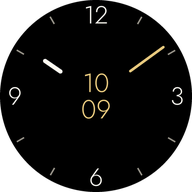
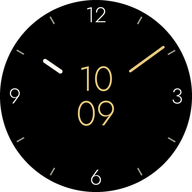
feat: bigger digital digits, smaller dial numerals, hands in AOD (#3)
- Digital heart grows from 64px to 84px (boxes and row offsets scaled
  to keep it centered on the dial)
- Dial numerals 12/3/6/9 shrink from 60px to 52px
- AOD now shows the white analog hands alongside the gray digits,
  via a dedicated TIME_POINTER reusing the ivory minute hand PNG
- Assets regenerated for both targets

diff --git a/watchface/index.js b/watchface/index.js
@@ -70,12 +70,12 @@ const HAND_MINUTE_POS = { posX: 5, posY: 205 }; // path is theme-driven
 
 // Digital heart — two stacked rows (HH above, MM below), centered on the dial.
 // Row boxes are symmetric around CY; exact px tuned in the simulator.
-const DIGIT_SIZE = 64;
+const DIGIT_SIZE = 84;
 const DIGIT_BOX_W = 200;
-const DIGIT_BOX_H = 76;
+const DIGIT_BOX_H = 100;
 // Each row's center offset from CY — mirrored in tools/render-assets.py
 // (DIGIT_ROW_DY). Boxes may overlap; they are transparent.
-const DIGIT_ROW_DY = 32;
+const DIGIT_ROW_DY = 42;
 
 const NORMAL = show_level.ONLY_NORMAL;
 const AOD = show_level.ONAL_AOD;
@@ -191,7 +191,23 @@ WatchFace({
 			show_level: NORMAL,
 		});
 
-		// ── AOD — digital heart only, dim gray, minimum lit pixels ───────────
+		// ── AOD — digital heart + white hands, minimum lit pixels ────────────
+		// Separate TIME_POINTER so the minute hand stays white in AOD instead
+		// of inheriting the theme accent (the ivory PNG doubles as white).
+		createWidget(widget.TIME_POINTER, {
+			hour_path: HAND_HOUR.path,
+			hour_centerX: CX,
+			hour_centerY: CY,
+			hour_posX: HAND_HOUR.posX,
+			hour_posY: HAND_HOUR.posY,
+			minute_path: "hands/minute-ivory.png",
+			minute_centerX: CX,
+			minute_centerY: CY,
+			minute_posX: HAND_MINUTE_POS.posX,
+			minute_posY: HAND_MINUTE_POS.posY,
+			show_level: AOD,
+		});
+
 		const aodHoursWidget = createWidget(widget.TEXT, {
 			x: CX - DIGIT_BOX_W / 2,
 			y: CY - DIGIT_ROW_DY - DIGIT_BOX_H / 2,

diff --git a/tools/render-assets.py b/tools/render-assets.py
@@ -58,7 +58,7 @@ THEMES = [
 DEFAULT_THEME = "champagne"
 
 # Dial
-NUMERAL_SIZE = 60
+NUMERAL_SIZE = 52
 NUMERAL_R = 197  # radius of each numeral's center — hugging the rim
 TICK_R_OUT = 222
 TICK_R_IN = 202
@@ -74,8 +74,8 @@ HOUR_VIS_R = 100  # aligned with the minute hand so the empty ring reads as one
 HOUR_W = 10
 
 # Digital center (preview only; the watch renders live TEXT widgets)
-DIGIT_SIZE = 64
-DIGIT_ROW_DY = 32  # each row's center offset from CY — mirrored in index.js
+DIGIT_SIZE = 84
+DIGIT_ROW_DY = 42  # each row's center offset from CY — mirrored in index.js
 
 PREVIEW_HOUR = 10
 PREVIEW_MINUTE = 9
